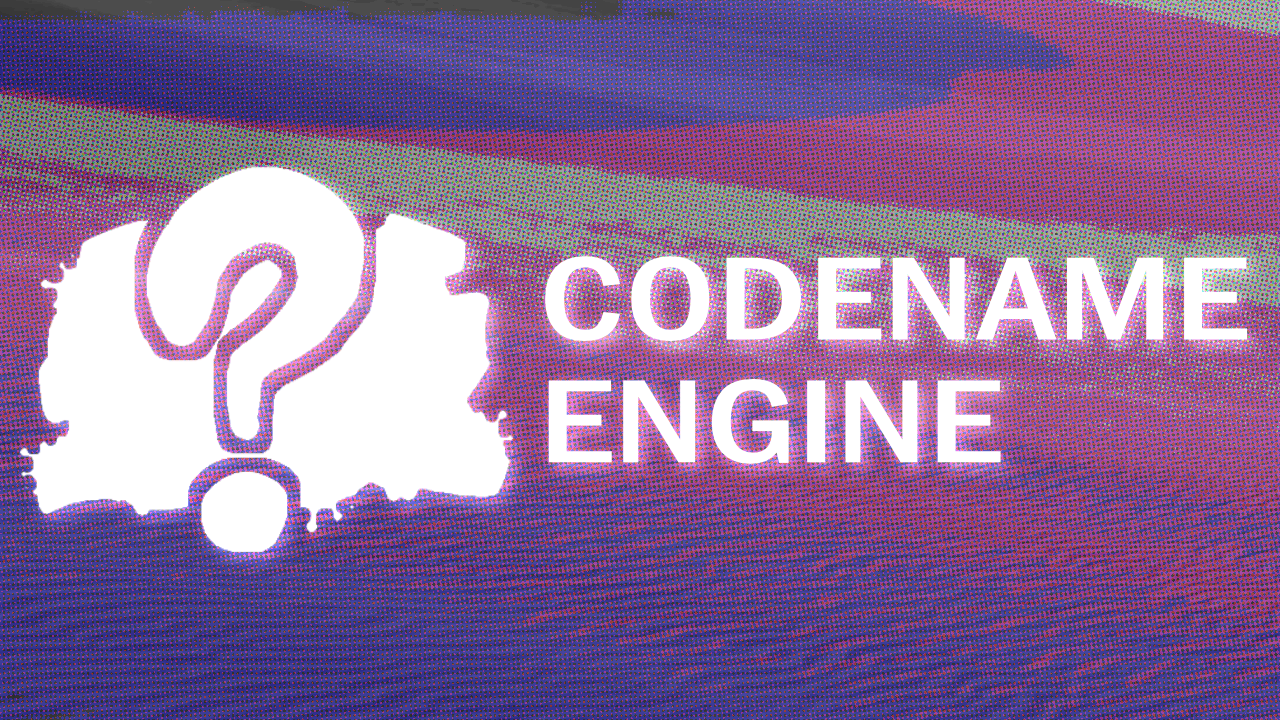
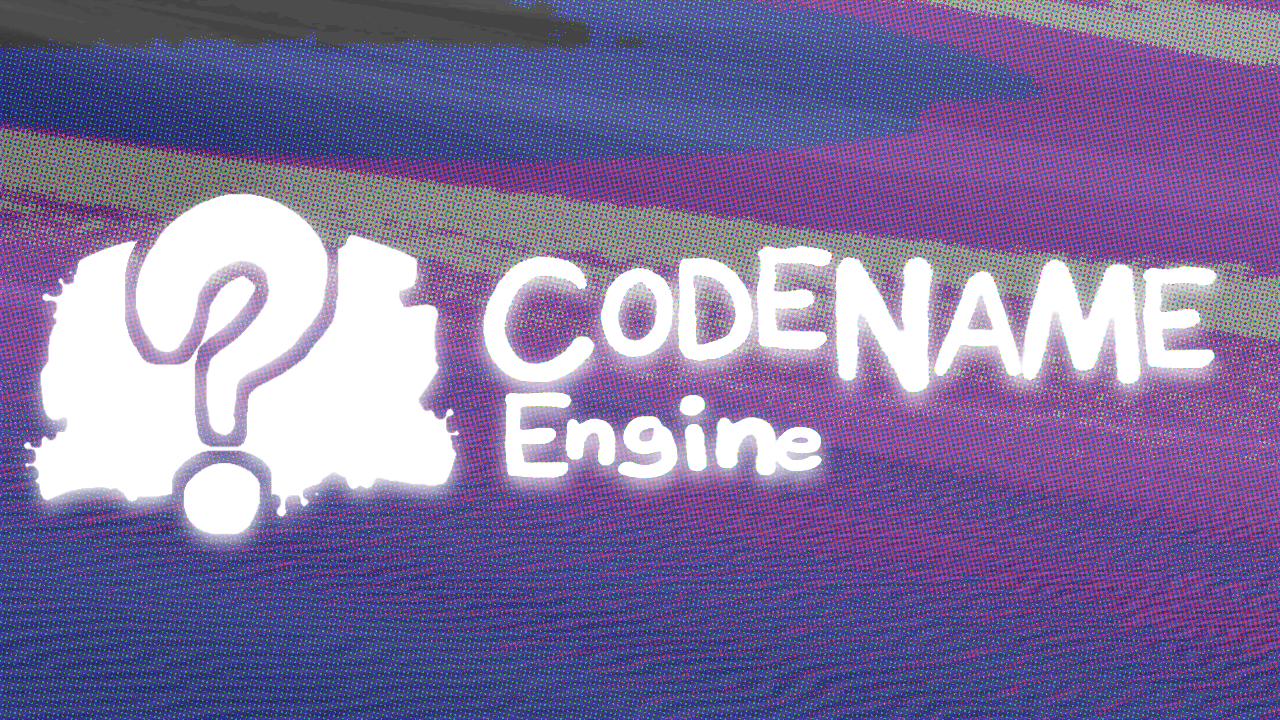
deploy: b7876266a6e0837c62b7076a470bfeec2404af6b

diff --git a/style.css b/style.css
@@ -1,12 +1,12 @@
 :root {
-  --primary-color: #531a7d;
+  --primary-color: #b265bd;
   --secondary-color: #43206e;
-  --background-primary-color: #1e1826;
-  --background-secondary-color: #17121d;
-  --list-background-color: #110d15;
+  --background-primary-color: #2d1e32;
+  --background-secondary-color: #211625;
+  --list-background-color: #150e17;
   --text-color: white;
-  --scrollbar-color: #2a2235;
-  --code-background: #100d15;
+  --scrollbar-color: #302235;
+  --code-background: #130d15;
 }
 
 * {
@@ -36,8 +36,8 @@ a {
   border: solid rgba(0, 0, 0, 0.2) 2px;
 }
 .default-button:hover {
-  filter: brightness(140%) saturate(140%);
-  backdrop-filter: brightness(140%) saturate(140%);
+  filter: brightness(140%);
+  backdrop-filter: brightness(140%);
 }
 
 *, *::before, *::after {
@@ -45,6 +45,7 @@ a {
 }
 
 header {
+  height: 75px;
   display: flex;
   padding: 0em 2em;
   box-shadow: 0px 5px 30px rgba(0, 0, 0, 0.3), 0px 0px 0px 2px rgba(0, 0, 0, 0.2) inset;
@@ -66,6 +67,9 @@ header > a {
   align-items: center;
 }
 header > a > img {
+  height: 40px;
+  width: auto !important;
+  max-width: fit-content !important;
   /*! max-height: 30%; */
   margin-right: 0.5em;
 }
@@ -105,7 +109,9 @@ br {
 .header {
   position: relative;
   z-index: 5;
-  background: linear-gradient(0deg, var(--primary-color) 0%, var(--secondary-color) 100%);
+  background: url("img/sigma ndj.png");
+  background-position: center center;
+  background-size: cover;
 }
 
 body {

diff --git a/index.html b/index.html
@@ -33,9 +33,8 @@
 	<div class="header">
 		<header>
     <a href="/">
-        <img src="/img/logo-header.png" style="width: 50px;" alt="Codename Logo">
-        <h2 class="mobile">CNE</h2>
-        <h2 class="desktop">Codename Engine</h2>
+        <img src="/img/logo-banner.png" alt="Codename Logo" class="desktop">
+        <img src="/img/logo-banner-mini.png" alt="Codename Logo" class="mobile">
     </a>
     <h2>Home</h2>
     <div>
@@ -45,14 +44,7 @@
 	</div>
 	<div class="container">
 		<div class="content">
-			<div class="logo-container">
-				<div class="logo">
-					<img class="logo-bg" src="img/logo-cne.png" alt="Codename Engine Logo">
-					<img class="question" src="img/question.png">
-				</div>
-			</div>
-			<h2 style="margin-bottom: 0.3em;">Codename Engine</h2>
-			<div class="compact"><sub>seriously we need an actual logo for this</sub></div>
+			<img src="/img/codename-animated.gif" style="margin-top: 1em"><br>
 
 			<a href="/api-docs/" class="default-button">API</a>
 			<a href="/wiki/" class="default-button">Wiki</a>

diff --git a/giscus-theme.css b/giscus-theme.css
@@ -1,12 +1,12 @@
 :root {
-  --primary-color: #531a7d;
+  --primary-color: #b265bd;
   --secondary-color: #43206e;
-  --background-primary-color: #1e1826;
-  --background-secondary-color: #17121d;
-  --list-background-color: #110d15;
+  --background-primary-color: #2d1e32;
+  --background-secondary-color: #211625;
+  --list-background-color: #150e17;
   --text-color: white;
-  --scrollbar-color: #2a2235;
-  --code-background: #100d15;
+  --scrollbar-color: #302235;
+  --code-background: #130d15;
 }
 
 * {

diff --git a/wiki/differences.html b/wiki/differences.html
@@ -28,9 +28,8 @@
 	<div class="header">
 		<header>
     <a href="/">
-        <img src="/img/logo-header.png" style="width: 50px;" alt="Codename Logo">
-        <h2 class="mobile">CNE</h2>
-        <h2 class="desktop">Codename Engine</h2>
+        <img src="/img/logo-banner.png" alt="Codename Logo" class="desktop">
+        <img src="/img/logo-banner-mini.png" alt="Codename Logo" class="mobile">
     </a>
     <h2>Differences between other FNF engines</h2>
     <div>

diff --git a/wiki/modding/scripting/script-snippets.html b/wiki/modding/scripting/script-snippets.html
@@ -28,9 +28,8 @@
 	<div class="header">
 		<header>
     <a href="/">
-        <img src="/img/logo-header.png" style="width: 50px;" alt="Codename Logo">
-        <h2 class="mobile">CNE</h2>
-        <h2 class="desktop">Codename Engine</h2>
+        <img src="/img/logo-banner.png" alt="Codename Logo" class="desktop">
+        <img src="/img/logo-banner-mini.png" alt="Codename Logo" class="mobile">
     </a>
     <h2>Useful script snippets for modders</h2>
     <div>

diff --git a/wiki/modding/scripting/playstate-scripts/cutscenes-dialogue-scripts.html b/wiki/modding/scripting/playstate-scripts/cutscenes-dialogue-scripts.html
@@ -28,9 +28,8 @@
 	<div class="header">
 		<header>
     <a href="/">
-        <img src="/img/logo-header.png" style="width: 50px;" alt="Codename Logo">
-        <h2 class="mobile">CNE</h2>
-        <h2 class="desktop">Codename Engine</h2>
+        <img src="/img/logo-banner.png" alt="Codename Logo" class="desktop">
+        <img src="/img/logo-banner-mini.png" alt="Codename Logo" class="mobile">
     </a>
     <h2>Cutscenes/Dialogue Scripts</h2>
     <div>

diff --git a/wiki/navigation.html b/wiki/navigation.html
@@ -28,9 +28,8 @@
 	<div class="header">
 		<header>
     <a href="/">
-        <img src="/img/logo-header.png" style="width: 50px;" alt="Codename Logo">
-        <h2 class="mobile">CNE</h2>
-        <h2 class="desktop">Codename Engine</h2>
+        <img src="/img/logo-banner.png" alt="Codename Logo" class="desktop">
+        <img src="/img/logo-banner-mini.png" alt="Codename Logo" class="mobile">
     </a>
     <h2>How to navigate the engine</h2>
     <div>

diff --git a/wiki/modding/characters/editor-features.html b/wiki/modding/characters/editor-features.html
@@ -28,9 +28,8 @@
 	<div class="header">
 		<header>
     <a href="/">
-        <img src="/img/logo-header.png" style="width: 50px;" alt="Codename Logo">
-        <h2 class="mobile">CNE</h2>
-        <h2 class="desktop">Codename Engine</h2>
+        <img src="/img/logo-banner.png" alt="Codename Logo" class="desktop">
+        <img src="/img/logo-banner-mini.png" alt="Codename Logo" class="mobile">
     </a>
     <h2>Character Editor Features</h2>
     <div>

diff --git a/wiki/modding/scripting/scripted-assets-libraries.html b/wiki/modding/scripting/scripted-assets-libraries.html
@@ -28,9 +28,8 @@
 	<div class="header">
 		<header>
     <a href="/">
-        <img src="/img/logo-header.png" style="width: 50px;" alt="Codename Logo">
-        <h2 class="mobile">CNE</h2>
-        <h2 class="desktop">Codename Engine</h2>
+        <img src="/img/logo-banner.png" alt="Codename Logo" class="desktop">
+        <img src="/img/logo-banner-mini.png" alt="Codename Logo" class="mobile">
     </a>
     <h2>Scripted Assets Libraries</h2>
     <div>

diff --git a/wiki/modding/scripting/playstate-scripts/character-stage-scripts.html b/wiki/modding/scripting/playstate-scripts/character-stage-scripts.html
@@ -28,9 +28,8 @@
 	<div class="header">
 		<header>
     <a href="/">
-        <img src="/img/logo-header.png" style="width: 50px;" alt="Codename Logo">
-        <h2 class="mobile">CNE</h2>
-        <h2 class="desktop">Codename Engine</h2>
+        <img src="/img/logo-banner.png" alt="Codename Logo" class="desktop">
+        <img src="/img/logo-banner-mini.png" alt="Codename Logo" class="mobile">
     </a>
     <h2>Character/Stage Scripts</h2>
     <div>

diff --git a/wiki/modding/scripting/playstate-scripts/events-notetypes-scripts.html b/wiki/modding/scripting/playstate-scripts/events-notetypes-scripts.html
@@ -28,9 +28,8 @@
 	<div class="header">
 		<header>
     <a href="/">
-        <img src="/img/logo-header.png" style="width: 50px;" alt="Codename Logo">
-        <h2 class="mobile">CNE</h2>
-        <h2 class="desktop">Codename Engine</h2>
+        <img src="/img/logo-banner.png" alt="Codename Logo" class="desktop">
+        <img src="/img/logo-banner-mini.png" alt="Codename Logo" class="mobile">
     </a>
     <h2>Events/Notetype Scripts</h2>
     <div>

diff --git a/wiki/modding/scripting/playstate-scripts/pause-gamover-scripts.html b/wiki/modding/scripting/playstate-scripts/pause-gamover-scripts.html
@@ -28,9 +28,8 @@
 	<div class="header">
 		<header>
     <a href="/">
-        <img src="/img/logo-header.png" style="width: 50px;" alt="Codename Logo">
-        <h2 class="mobile">CNE</h2>
-        <h2 class="desktop">Codename Engine</h2>
+        <img src="/img/logo-banner.png" alt="Codename Logo" class="desktop">
+        <img src="/img/logo-banner-mini.png" alt="Codename Logo" class="mobile">
     </a>
     <h2>Pause/Game Over Scripts</h2>
     <div>
